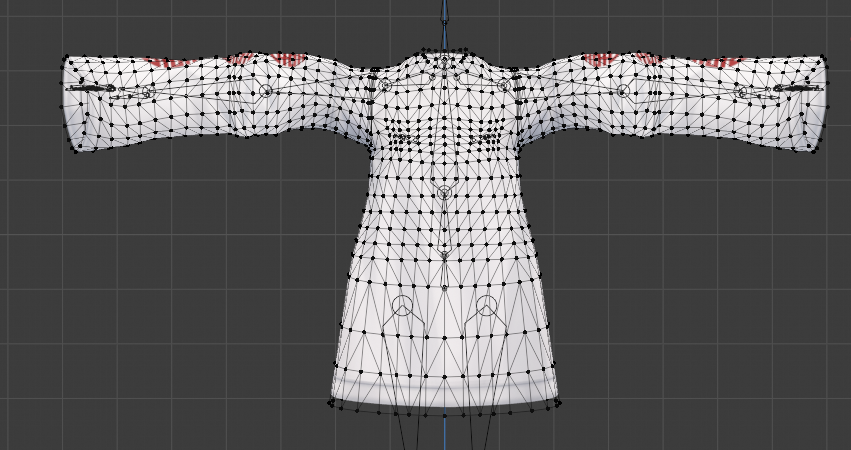
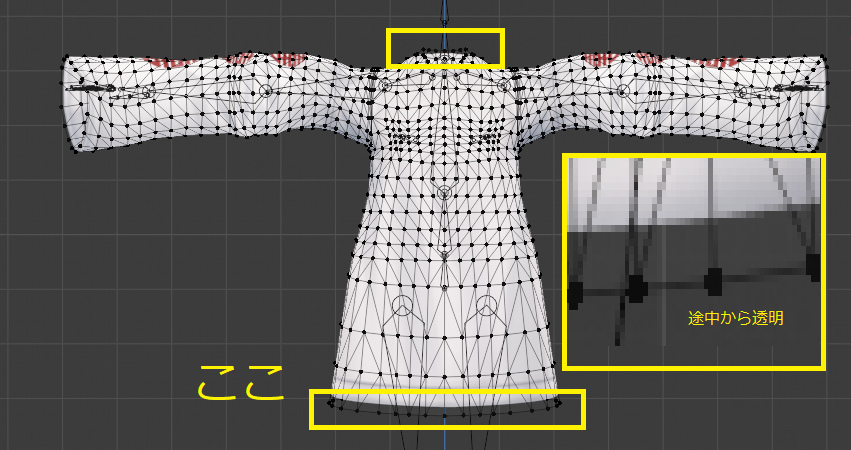
fix figure

diff --git a/docs/posts/20210223/index.html b/docs/posts/20210223/index.html
@@ -115,7 +115,7 @@
 <p>こんな感じになるはず．線しか表示されていないときは，モデル（？）が表示されているところでキーボードの&quot;z&quot;&gt;[レンダー]．それでも表示されない場合はどこかで間違えてるかも．</p>
 <p><img src="https://walk-to-work.github.io/blog/images/20210223/7.png" alt="1"></p>
 <p>透明部分はメッシュが削られているが，途中からテクスチャが切れて半分透明といったメッシュは削除されていない．これを手動で削っていく（そのうち自動化したいね）．</p>
-<p><a href="https://walk-to-work.github.io/blog/images/20210223/8.png">1</a></p>
+<p><img src="https://walk-to-work.github.io/blog/images/20210223/8.png" alt="削除するメッシュの参考"></p>
 <p>まずは首から（撮ったスクショの都合で）</p>
 <p><img src="https://walk-to-work.github.io/blog/images/20210223/11.png" alt="1"></p>
 <p>[オブジェクトモード]&gt;メッシュ選択&gt;[編集モード]でキーボードの&quot;k&quot;を押し，ナイフモード？を出す．その状態でメッシュ上を左クリックすると赤い四角が打たれ，さらに違う箇所を押すとその四角と四角を結ぶ切れ込みができる．それで透明部分とテクスチャがある部分の境界を繋いで首回りを一周回す．スタート地点に戻ってきたらキーボード&quot;Enter&quot;で点が透明部分を分かつ線ができる．</p>

diff --git a/content/posts/20210223.md b/content/posts/20210223.md
@@ -70,7 +70,7 @@ Blenderを起動．メニューバーの[ファイル]>[インポート]>[VRM(.v
 
 透明部分はメッシュが削られているが，途中からテクスチャが切れて半分透明といったメッシュは削除されていない．これを手動で削っていく（そのうち自動化したいね）．
 
-[1](/images/20210223/8.png)
+![削除するメッシュの参考](/images/20210223/8.png)
 
 まずは首から（撮ったスクショの都合で）
 
